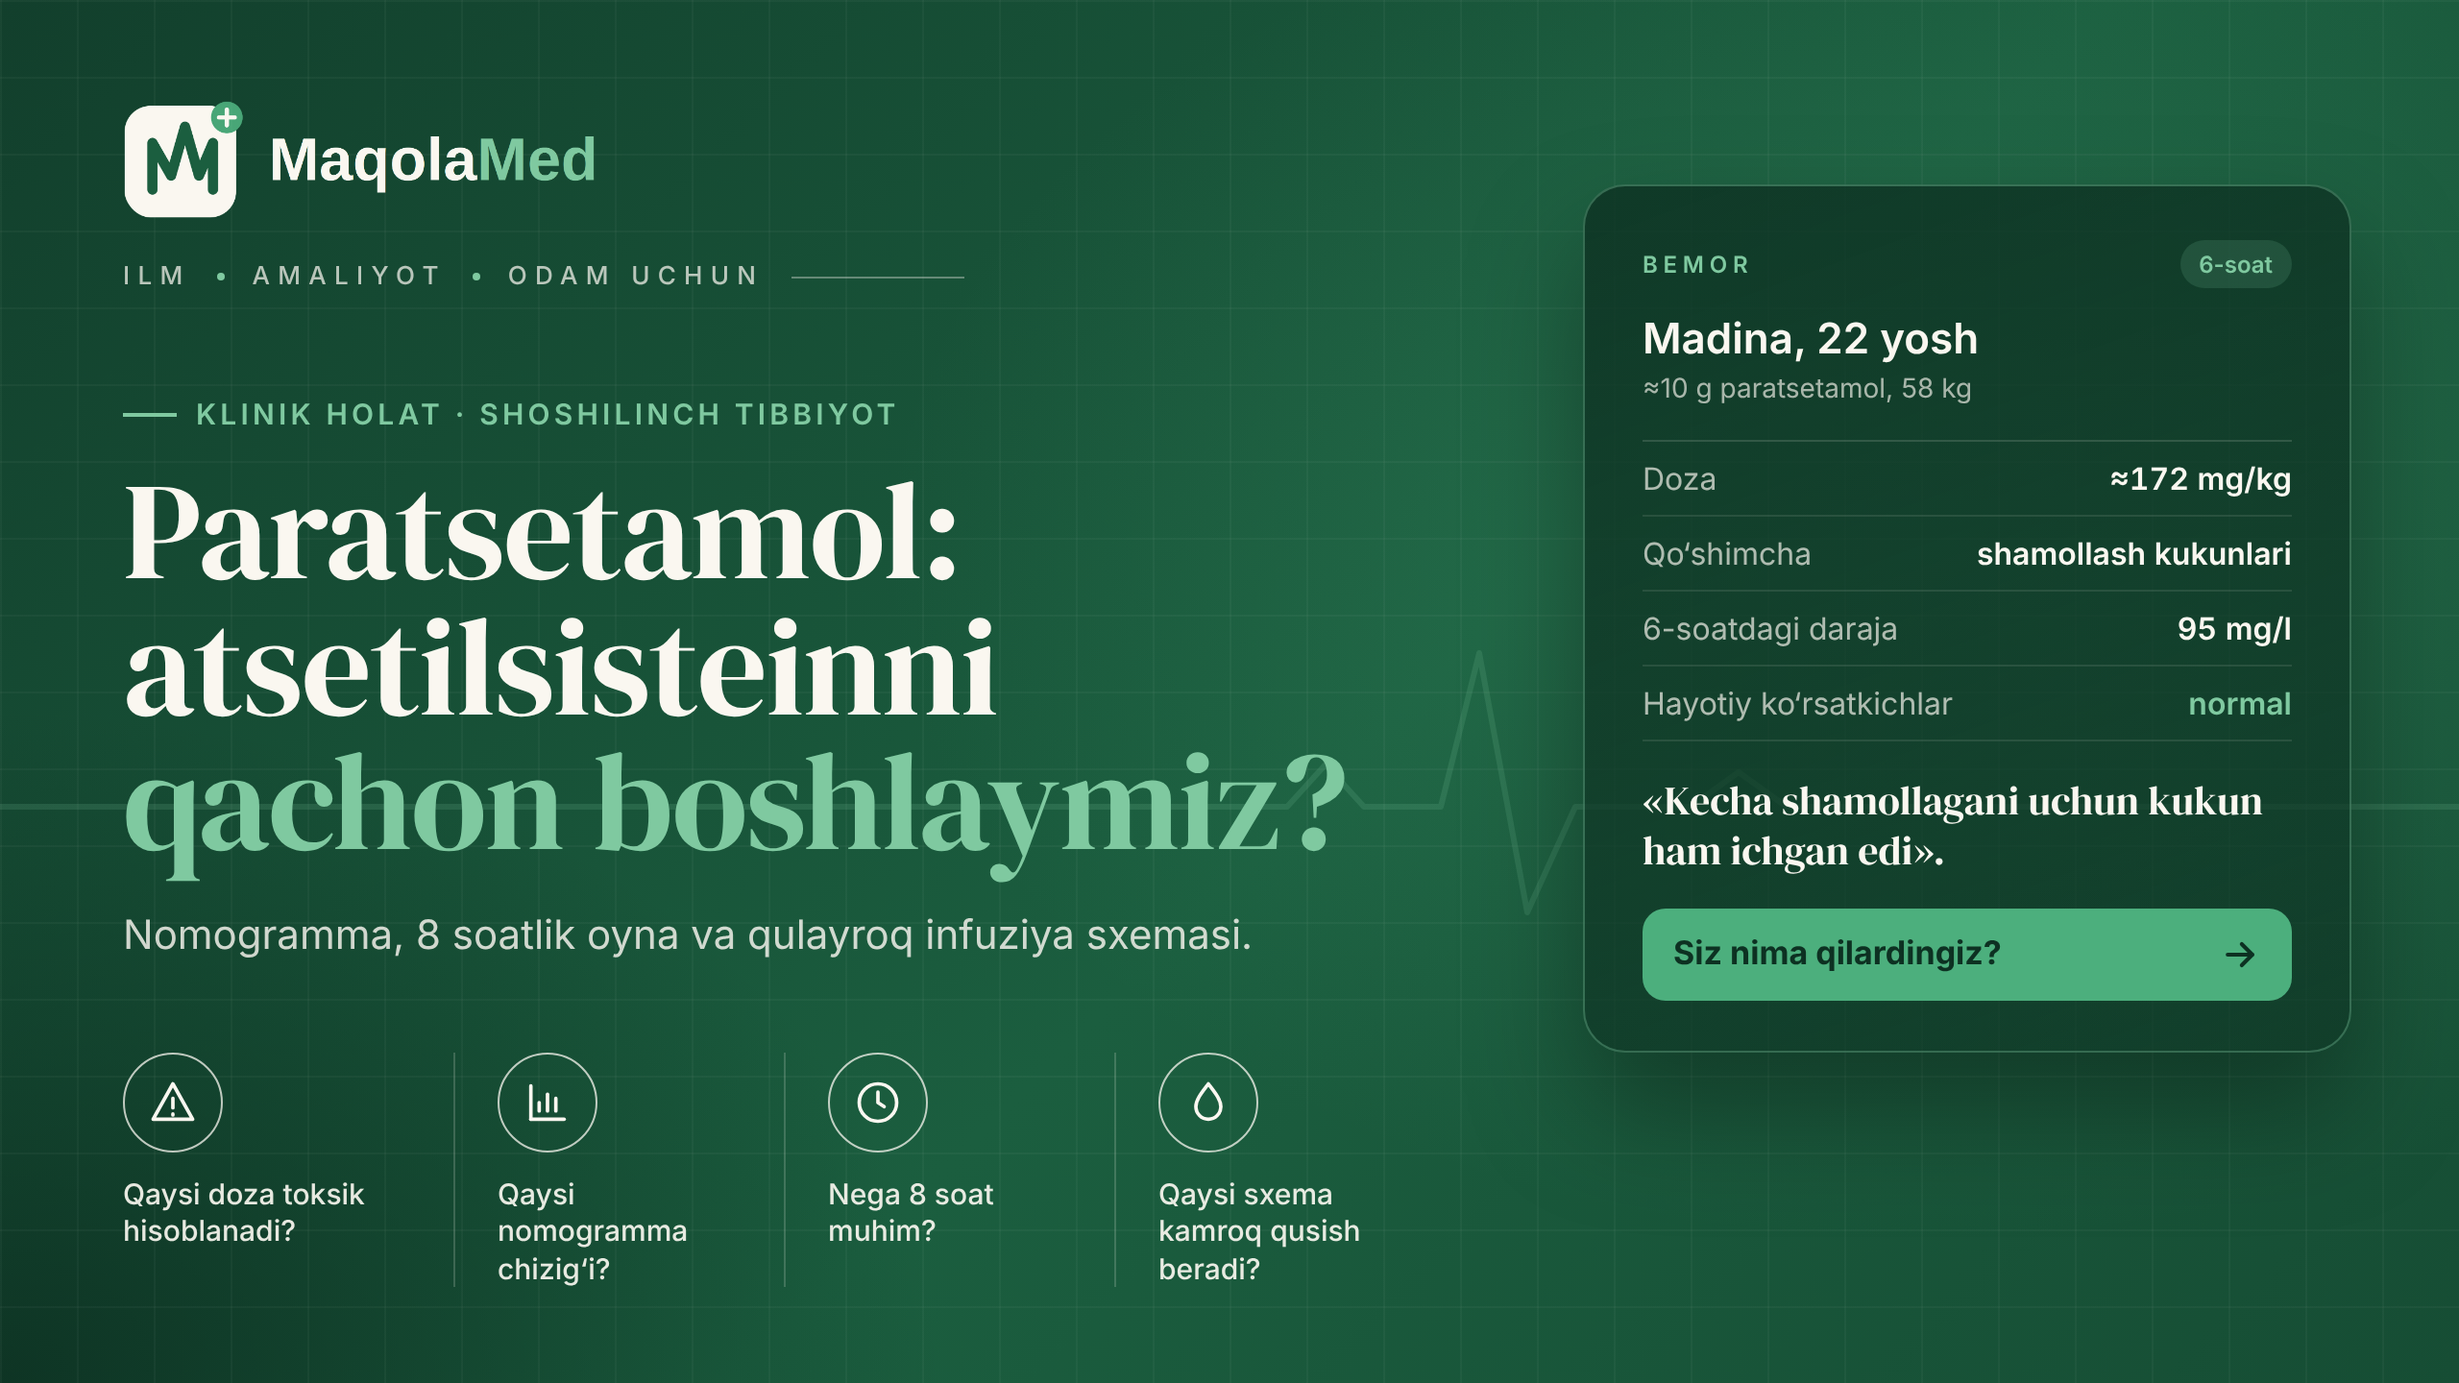
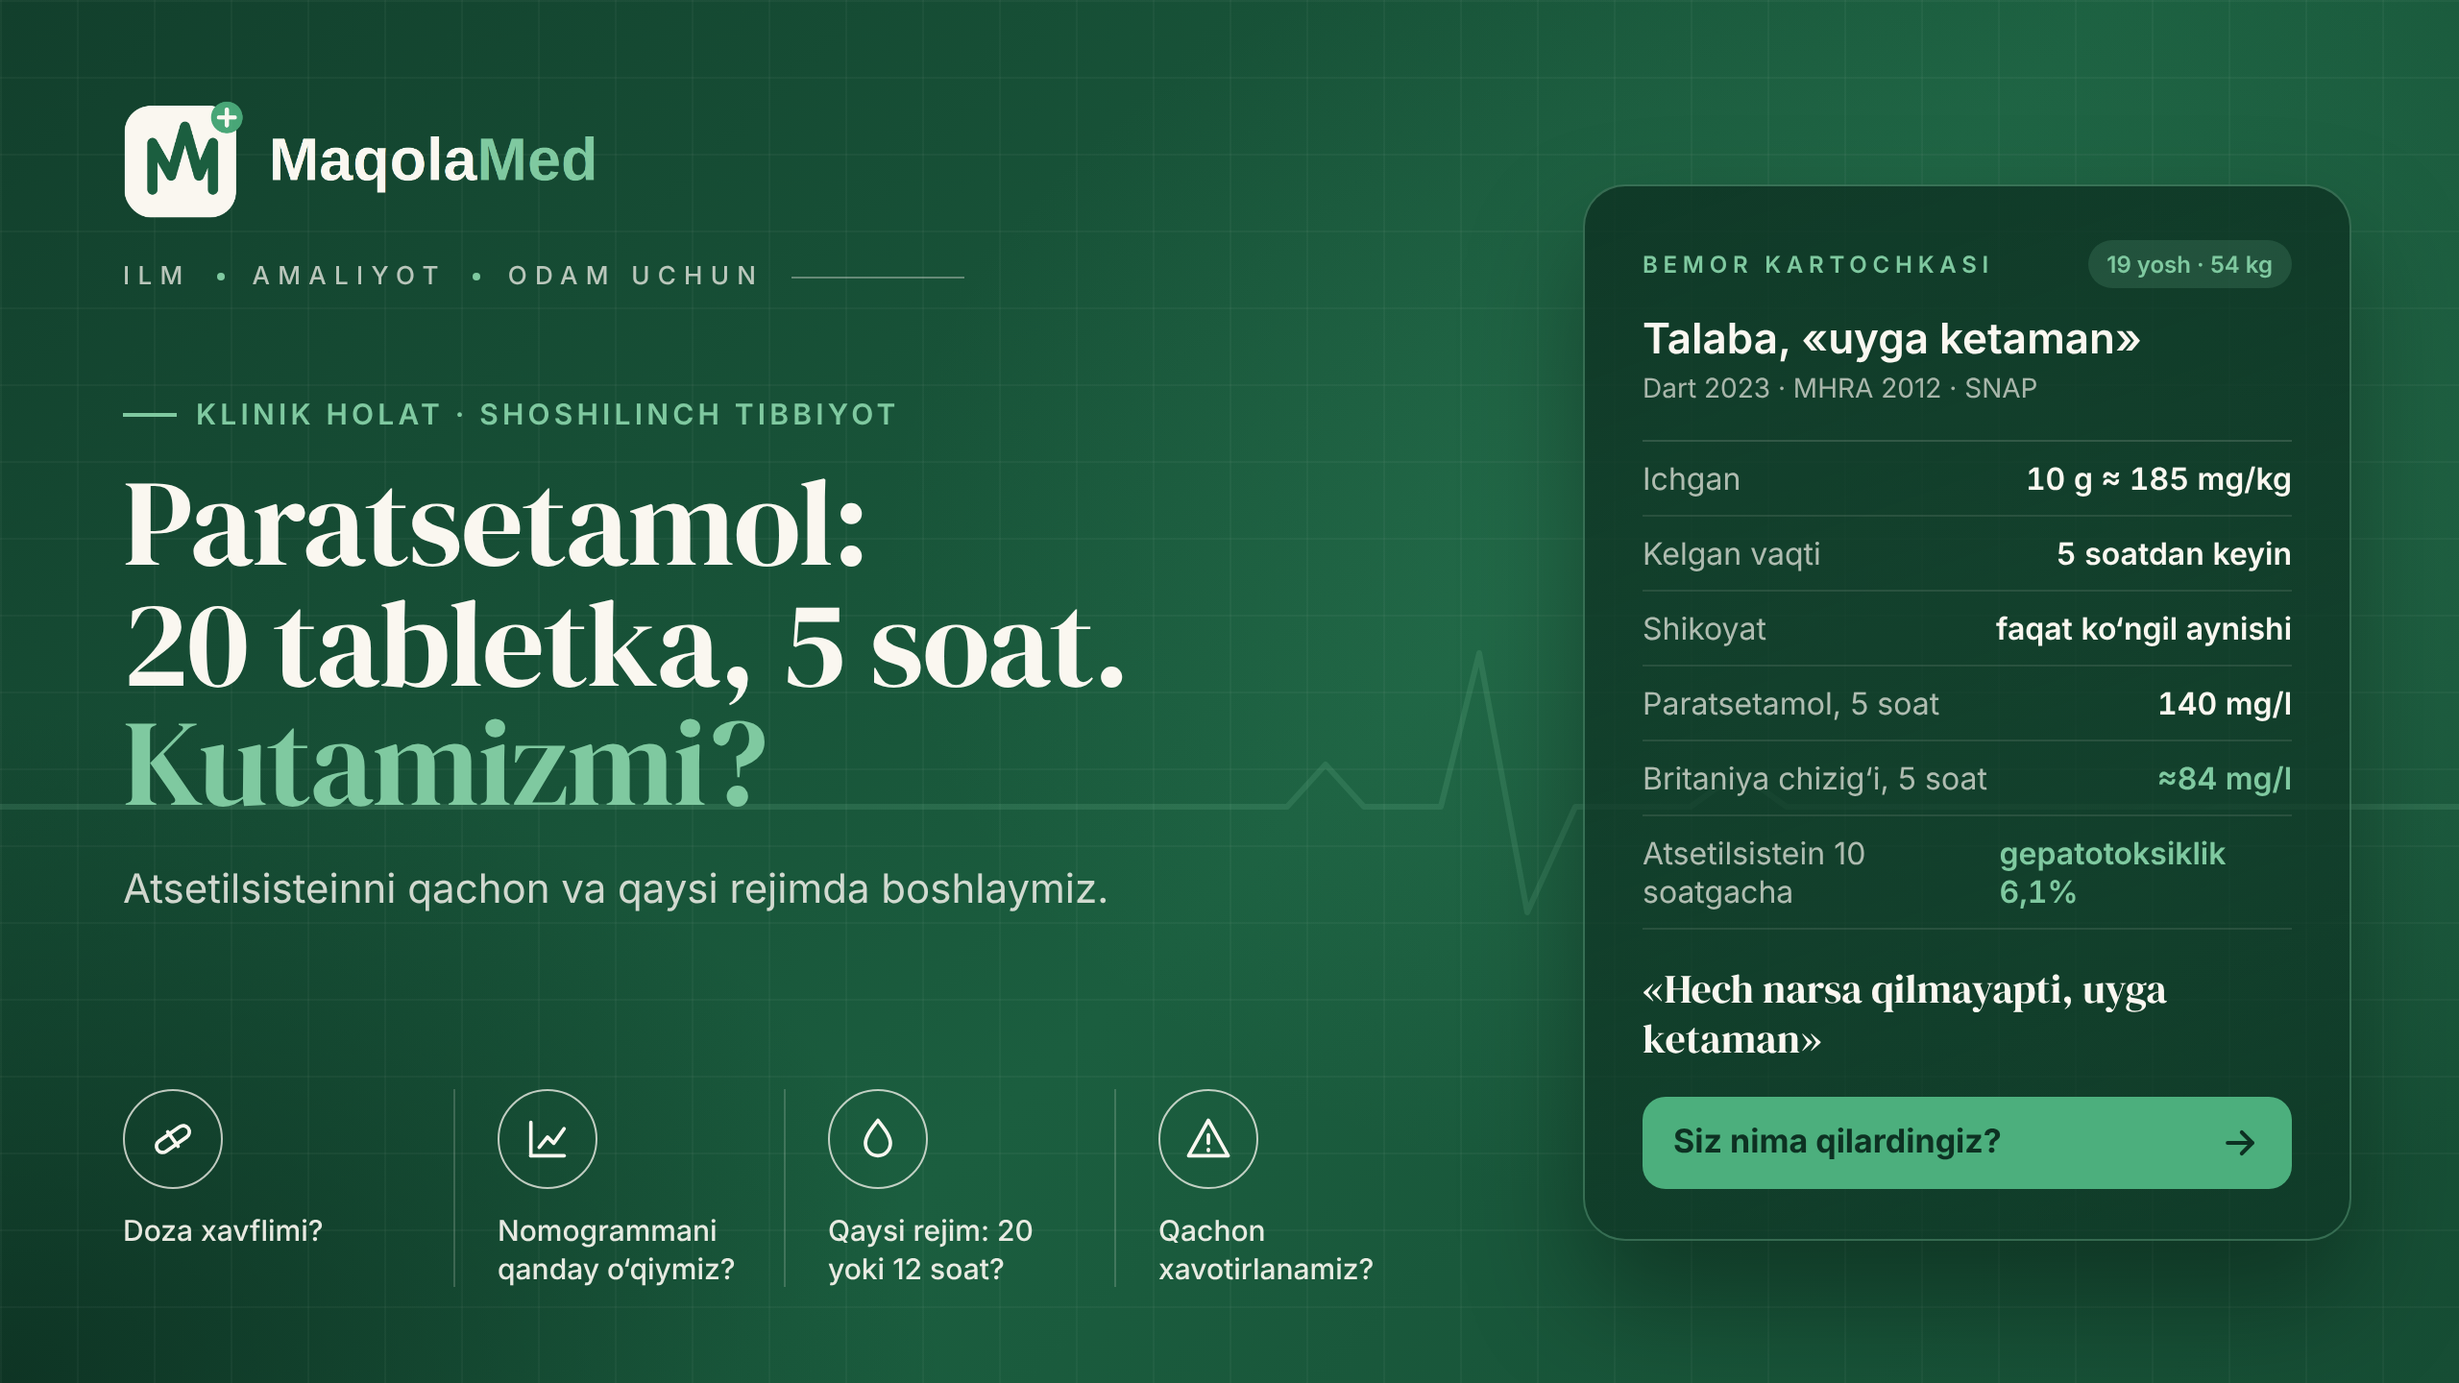
29-dekabr maqolasi qayta yozildi (v2, humanizer): paratsetamol ortiqcha dozasi — muqovalar, 1 rasm

diff --git a/_manba/2026-12-29/1-rasm.html b/_manba/2026-12-29/1-rasm.html
@@ -31,22 +31,24 @@ td.warn{background:var(--redbg)}
 .note b{color:var(--deep)}
 .src{position:absolute;right:56px;bottom:12px;font-size:12px;color:var(--muted)}
 .arrow{stroke:var(--emerald);stroke-width:2.2;fill:none}
-</style></head><body>
-<style>:root{--H:900px}.q{position:absolute;width:560px;left:56px}.r{position:absolute;left:700px;width:524px}.lab{font-size:12px;font-weight:700;letter-spacing:.1em;color:var(--muted);position:absolute}</style>
+</style></head><body><style>:root{--H:620px}
+.steps{display:grid;grid-template-columns:repeat(4,1fr);gap:14px}
+.steps .node{font-size:15px;min-height:200px}
+.steps .node b{font-size:16.5px;margin-bottom:6px}
+.lines{margin-top:16px;display:grid;grid-template-columns:1.1fr 1fr;gap:16px}
+table{border-spacing:0 6px} td{padding:9px 14px;font-size:15.5px} th{padding:0 14px}
+</style>
 <div class="fig"><div class="top"><h1>Paratsetamol ortiqcha dozasi:<br><em>atsetilsisteinni qachon boshlaymiz?</em></h1><div class="brand"><img src="icon.png" alt=""><span>Maqola<b>Med</b></span></div></div>
-<svg style="position:absolute;left:0;top:0" width="1280" height="900"><defs><marker id="ah" markerWidth="10" markerHeight="10" refX="8" refY="5" orient="auto"><path d="M0,0 L10,5 L0,10 z" fill="#1B5E3F"/></marker></defs>
-<path class="arrow" d="M616 206 H692" marker-end="url(#ah)"/><path class="arrow" d="M336 246 V284" marker-end="url(#ah)"/>
-<path class="arrow" d="M616 330 H692" marker-end="url(#ah)"/><path class="arrow" d="M336 370 V408" marker-end="url(#ah)"/>
-<path class="arrow" d="M616 454 H692" marker-end="url(#ah)"/><path class="arrow" d="M336 494 V532" marker-end="url(#ah)"/>
-<path class="arrow" d="M616 590 H692" marker-end="url(#ah)"/><path class="arrow" d="M336 646 V690" marker-end="url(#ah)"/></svg>
-<div class="node n-dark q" style="top:166px"><b>1. Qabul vaqti aniq va bir martalikmi?</b>Barcha paratsetamolli dorilarni so‘rang, kukunlar ham</div>
-<div class="lab" style="left:630px;top:186px">YO‘Q</div><div class="node n-red r" style="top:170px"><b style="color:#B5513F">NAC ni darhol boshlang</b>Vaqt noaniq, cho‘zilgan yoki anamnez shubhali [1, 3]</div>
-<div class="node n-white q" style="top:290px"><b>2. Doza ≥200 mg/kg yoki ≥10 g? [3]</b>Qaysi biri kichik bo‘lsa</div>
-<div class="lab" style="left:630px;top:310px">YO‘Q</div><div class="node n-white r" style="top:294px"><b>Xavf past</b>Klinik baholash, kuzatuv</div>
-<div class="node n-white q" style="top:414px"><b>3. Daraja 8 soatgacha tayyor bo‘ladimi?</b>Darajani 4 soatdan keyin oling</div>
-<div class="lab" style="left:630px;top:434px">YO‘Q</div><div class="node n-red r" style="top:418px"><b style="color:#B5513F">NAC ni natijani kutmasdan boshlang</b>8 soat ichida — deyarli to‘liq himoya [2, 3]</div>
-<div class="node n-amb q" style="top:538px"><b>4. Daraja nomogramma chizig‘idan yuqorimi?</b>4 soatda: 150 mg/l ≈ 1 000 µmol/l [3] · MHRA: 100 mg/l [2]</div>
-<div class="lab" style="left:630px;top:570px">YO‘Q</div><div class="node n-white r" style="top:552px"><b>Davo shart emas</b>Faqat anamnez ishonchli bo‘lsa</div>
-<div class="node n-deep" style="position:absolute;left:56px;top:698px;width:1168px"><b>HA → NAC: 200 mg/kg 4 soatda, so‘ng 100 mg/kg 16 soatda [3]</b>20-soatda qayta baholang: ALT/AST pasaymoqda, INR &lt; 2,0, bemor klinik yaxshi → to‘xtatish. Aks holda davom ettiring [3].</div>
-<div class="note" style="bottom:44px"><b>Barqarorlashuvdan so‘ng:</b> psixiatrik baholash. 1 mg/l paratsetamol ≈ 6,6 µmol/l — laboratoriya birligini tekshiring.</div>
-<div class="src">NAC — atsetilsistein. Raqamlar maqoladagi manbalar ro‘yxatiga ishora qiladi.</div></div></body></html>
+<div class="steps">
+<div class="node n-dark"><b>1. Doza va vaqt</b>mg/kg ni hisoblang. Xavfli: &gt;200 mg/kg yoki &gt;10 g [1]; Buyuk Britaniya: &gt;75 mg/kg [2]. Kombinatsiyalangan kukunlarni so‘rang.</div>
+<div class="node n-white"><b>2. Daraja va nomogramma</b>4–24 soatda qondagi paratsetamol. Natija 8 soatdan kechiksa yoki vaqt noma’lum bo‘lsa, kutmasdan boshlang [1].</div>
+<div class="node n-white"><b>3. Atsetilsistein</b>Kamida 300 mg/kg 20–24 soatda [1]. 12 soatlik rejim: 100 mg/kg 2 soatda + 200 mg/kg 10 soatda [8]. Anafilaktoid reaksiya qarshi ko‘rsatma emas [3].</div>
+<div class="node n-red"><b>4. Xavotir belgilari</b>≥30 g yoki 4 soatda &gt;300 mg/l: toksikolog [1]. ≥900 mg/l + atsidoz: dializ [1]. pH &lt;7,3, laktat &gt;3: transplantatsiya markazi [7].</div>
+</div>
+<div class="lines"><table><tr><th>Soat</th><th>Britaniya chizig‘i</th><th>AQSh chizig‘i</th></tr>
+<tr><td>4</td><td class="new"><b>100 mg/l</b></td><td><b>150 mg/l</b></td></tr>
+<tr><td>5</td><td class="new">≈84 mg/l</td><td>≈126 mg/l</td></tr>
+<tr><td>8</td><td class="new">≈50 mg/l</td><td>≈75 mg/l</td></tr>
+<tr><td>15</td><td class="new">15 mg/l</td><td>≈22 mg/l</td></tr></table>
+<div class="node n-amb" style="align-self:start;margin-top:30px"><b>Vaqt hal qiladi [5]</b>Og‘iz orqali atsetilsistein 10 soatgacha boshlanganda gepatotoksiklik 6,1%, 10–24 soatda 26,4%. ≈ qiymatlar chiziqning 4 soatlik yarim yemirilishi bo‘yicha hisoblangan [3, 4].</div></div>
+<div class="src">Raqamlar maqoladagi manbalar ro‘yxatiga ishora qiladi.</div></div></body></html>

diff --git a/_manba/2026-12-29/muqova-16x9.html b/_manba/2026-12-29/muqova-16x9.html
@@ -53,7 +53,9 @@ h1 em{font-style:normal;color:var(--mint)}
 .quote{margin-top:18px;font-family:"DM Serif Display",serif;font-size:21px;line-height:1.25;color:var(--cream)}
 .ask{margin-top:16px;display:flex;align-items:center;justify-content:space-between;padding:13px 16px;border-radius:12px;background:var(--green);color:#0D3122;font-weight:700;font-size:17px}
 .ask svg{width:22px;height:22px;stroke:#0D3122;fill:none;stroke-width:2.2;stroke-linecap:round;stroke-linejoin:round}
-h1{font-size:72px}
+
+
+h1{font-size:64px}
 </style>
 </head>
 <body><div class="cover"><div class="grid"></div>
@@ -61,9 +63,9 @@ h1{font-size:72px}
 <div class="left"><div class="brand"><img src="logo_dark_bg.png" alt="MaqolaMed"></div>
 <div class="tag" style="margin-top:22px"><span>ILM</span><i></i><span>AMALIYOT</span><i></i><span>ODAM UCHUN</span><span class="line"></span></div>
 <div class="kicker"><span></span>Klinik holat · Shoshilinch tibbiyot</div>
-<h1>Paratsetamol:<br>atsetilsisteinni<br><em>qachon boshlaymiz?</em></h1>
-<div class="sub">Nomogramma, 8 soatlik oyna va qulayroq infuziya sxemasi.</div></div>
-<div class="points"><div class="pt"><div class="ic"><svg viewBox="0 0 24 24"><path d="M12 3l9.5 17h-19z"/><path d="M12 10v4.5"/><path d="M12 17.5v.5"/></svg></div><p>Qaysi doza toksik hisoblanadi?</p></div><div class="pt"><div class="ic"><svg viewBox="0 0 24 24"><path d="M4 20V4"/><path d="M4 20h16"/><path d="M8 16v-4"/><path d="M12 16V8"/><path d="M16 16v-6"/></svg></div><p>Qaysi nomogramma chizig‘i?</p></div><div class="pt"><div class="ic"><svg viewBox="0 0 24 24"><circle cx="12" cy="12" r="9"/><path d="M12 7v5l3 2"/></svg></div><p>Nega 8 soat muhim?</p></div><div class="pt"><div class="ic"><svg viewBox="0 0 24 24"><path d="M12 3c3 4 6 7.5 6 11a6 6 0 0 1-12 0c0-3.5 3-7 6-11z"/></svg></div><p>Qaysi sxema kamroq qusish beradi?</p></div></div>
-<div class="card"><div class="ch"><span class="lbl">BEMOR</span><span class="pill">6-soat</span></div>
-<h3>Madina, 22 yosh<small style='display:none'></small><small>≈10 g paratsetamol, 58 kg</small></h3><div class="rows"><div class="row"><span>Doza</span><span class="">≈172 mg/kg</span></div><div class="row"><span>Qo‘shimcha</span><span class="">shamollash kukunlari</span></div><div class="row"><span>6-soatdagi daraja</span><span class="">95 mg/l</span></div><div class="row"><span>Hayotiy ko‘rsatkichlar</span><span class="ok">normal</span></div></div><div class="quote">«Kecha shamollagani uchun kukun ham ichgan edi».</div><div class="ask">Siz nima qilardingiz?<svg viewBox="0 0 24 24"><path d="M5 12h14"/><path d="M13 6l6 6-6 6"/></svg></div></div>
+<h1>Paratsetamol:<br>20 tabletka, 5 soat.<br><em>Kutamizmi?</em></h1>
+<div class="sub">Atsetilsisteinni qachon va qaysi rejimda boshlaymiz.</div></div>
+<div class="points"><div class="pt"><div class="ic"><svg viewBox="0 0 24 24"><rect x="3" y="9" width="18" height="6" rx="3" transform="rotate(-35 12 12)"/><path d="M9.5 8.5l5 7"/></svg></div><p>Doza xavflimi?</p></div><div class="pt"><div class="ic"><svg viewBox="0 0 24 24"><path d="M4 20V4"/><path d="M4 20h16"/><path d="M8 16l4-5 3 3 5-7"/></svg></div><p>Nomogrammani qanday o‘qiymiz?</p></div><div class="pt"><div class="ic"><svg viewBox="0 0 24 24"><path d="M12 3c3 4 6 7.5 6 11a6 6 0 0 1-12 0c0-3.5 3-7 6-11z"/></svg></div><p>Qaysi rejim: 20 yoki 12 soat?</p></div><div class="pt"><div class="ic"><svg viewBox="0 0 24 24"><path d="M12 3l9.5 17h-19z"/><path d="M12 10v4"/><path d="M12 17v.5"/></svg></div><p>Qachon xavotirlanamiz?</p></div></div>
+<div class="card"><div class="ch"><span class="lbl">BEMOR KARTOCHKASI</span><span class="pill">19 yosh · 54 kg</span></div>
+<h3>Talaba, «uyga ketaman»<small>Dart 2023 · MHRA 2012 · SNAP</small></h3><div class="rows"><div class="row"><span>Ichgan</span><span class="">10 g ≈ 185 mg/kg</span></div><div class="row"><span>Kelgan vaqti</span><span class="">5 soatdan keyin</span></div><div class="row"><span>Shikoyat</span><span class="">faqat ko‘ngil aynishi</span></div><div class="row"><span>Paratsetamol, 5 soat</span><span class="">140 mg/l</span></div><div class="row"><span>Britaniya chizig‘i, 5 soat</span><span class="ok">≈84 mg/l</span></div><div class="row"><span>Atsetilsistein 10 soatgacha</span><span class="ok">gepatotoksiklik 6,1%</span></div></div><div class="quote">«Hech narsa qilmayapti, uyga ketaman»</div><div class="ask">Siz nima qilardingiz?<svg viewBox="0 0 24 24"><path d="M5 12h14"/><path d="M13 6l6 6-6 6"/></svg></div></div>
 </div></body></html>

diff --git a/_manba/2026-12-29/muqova-instagram-4x5.html b/_manba/2026-12-29/muqova-instagram-4x5.html
@@ -69,6 +69,10 @@ h1{font-size:96px;margin-top:18px}
 .pt{width:auto;flex:1}
 .pt p{font-size:17px}
 
+
+
+
+h1{font-size:88px}
 </style>
 </head>
 <body><div class="cover"><div class="grid"></div>
@@ -76,9 +80,9 @@ h1{font-size:96px;margin-top:18px}
 <div class="left"><div class="brand"><img src="logo_dark_bg.png" alt="MaqolaMed"></div>
 <div class="tag" style="margin-top:22px"><span>ILM</span><i></i><span>AMALIYOT</span><i></i><span>ODAM UCHUN</span><span class="line"></span></div>
 <div class="kicker"><span></span>Klinik holat · Shoshilinch tibbiyot</div>
-<h1>Paratsetamol:<br>atsetilsisteinni<br><em>qachon boshlaymiz?</em></h1>
-<div class="sub">Nomogramma, 8 soatlik oyna va qulayroq infuziya sxemasi.</div></div>
-<div class="points"><div class="pt"><div class="ic"><svg viewBox="0 0 24 24"><path d="M12 3l9.5 17h-19z"/><path d="M12 10v4.5"/><path d="M12 17.5v.5"/></svg></div><p>Qaysi doza toksik hisoblanadi?</p></div><div class="pt"><div class="ic"><svg viewBox="0 0 24 24"><path d="M4 20V4"/><path d="M4 20h16"/><path d="M8 16v-4"/><path d="M12 16V8"/><path d="M16 16v-6"/></svg></div><p>Qaysi nomogramma chizig‘i?</p></div><div class="pt"><div class="ic"><svg viewBox="0 0 24 24"><circle cx="12" cy="12" r="9"/><path d="M12 7v5l3 2"/></svg></div><p>Nega 8 soat muhim?</p></div><div class="pt"><div class="ic"><svg viewBox="0 0 24 24"><path d="M12 3c3 4 6 7.5 6 11a6 6 0 0 1-12 0c0-3.5 3-7 6-11z"/></svg></div><p>Qaysi sxema kamroq qusish beradi?</p></div></div>
-<div class="card"><div class="ch"><span class="lbl">BEMOR</span><span class="pill">6-soat</span></div>
-<h3>Madina, 22 yosh<small style='display:none'></small><small>≈10 g paratsetamol, 58 kg</small></h3><div class="rows"><div class="row"><span>Doza</span><span class="">≈172 mg/kg</span></div><div class="row"><span>Qo‘shimcha</span><span class="">shamollash kukunlari</span></div><div class="row"><span>6-soatdagi daraja</span><span class="">95 mg/l</span></div><div class="row"><span>Hayotiy ko‘rsatkichlar</span><span class="ok">normal</span></div></div><div class="quote">«Kecha shamollagani uchun kukun ham ichgan edi».</div><div class="ask">Siz nima qilardingiz?<svg viewBox="0 0 24 24"><path d="M5 12h14"/><path d="M13 6l6 6-6 6"/></svg></div></div>
+<h1>Paratsetamol:<br>20 tabletka, 5 soat.<br><em>Kutamizmi?</em></h1>
+<div class="sub">Atsetilsisteinni qachon va qaysi rejimda boshlaymiz.</div></div>
+<div class="points"><div class="pt"><div class="ic"><svg viewBox="0 0 24 24"><rect x="3" y="9" width="18" height="6" rx="3" transform="rotate(-35 12 12)"/><path d="M9.5 8.5l5 7"/></svg></div><p>Doza xavflimi?</p></div><div class="pt"><div class="ic"><svg viewBox="0 0 24 24"><path d="M4 20V4"/><path d="M4 20h16"/><path d="M8 16l4-5 3 3 5-7"/></svg></div><p>Nomogrammani qanday o‘qiymiz?</p></div><div class="pt"><div class="ic"><svg viewBox="0 0 24 24"><path d="M12 3c3 4 6 7.5 6 11a6 6 0 0 1-12 0c0-3.5 3-7 6-11z"/></svg></div><p>Qaysi rejim: 20 yoki 12 soat?</p></div><div class="pt"><div class="ic"><svg viewBox="0 0 24 24"><path d="M12 3l9.5 17h-19z"/><path d="M12 10v4"/><path d="M12 17v.5"/></svg></div><p>Qachon xavotirlanamiz?</p></div></div>
+<div class="card"><div class="ch"><span class="lbl">BEMOR KARTOCHKASI</span><span class="pill">19 yosh · 54 kg</span></div>
+<h3>Talaba, «uyga ketaman»<small>Dart 2023 · MHRA 2012 · SNAP</small></h3><div class="rows"><div class="row"><span>Ichgan</span><span class="">10 g ≈ 185 mg/kg</span></div><div class="row"><span>Kelgan vaqti</span><span class="">5 soatdan keyin</span></div><div class="row"><span>Shikoyat</span><span class="">faqat ko‘ngil aynishi</span></div><div class="row"><span>Paratsetamol, 5 soat</span><span class="">140 mg/l</span></div><div class="row"><span>Britaniya chizig‘i, 5 soat</span><span class="ok">≈84 mg/l</span></div><div class="row"><span>Atsetilsistein 10 soatgacha</span><span class="ok">gepatotoksiklik 6,1%</span></div></div><div class="quote">«Hech narsa qilmayapti, uyga ketaman»</div><div class="ask">Siz nima qilardingiz?<svg viewBox="0 0 24 24"><path d="M5 12h14"/><path d="M13 6l6 6-6 6"/></svg></div></div>
 </div></body></html>
